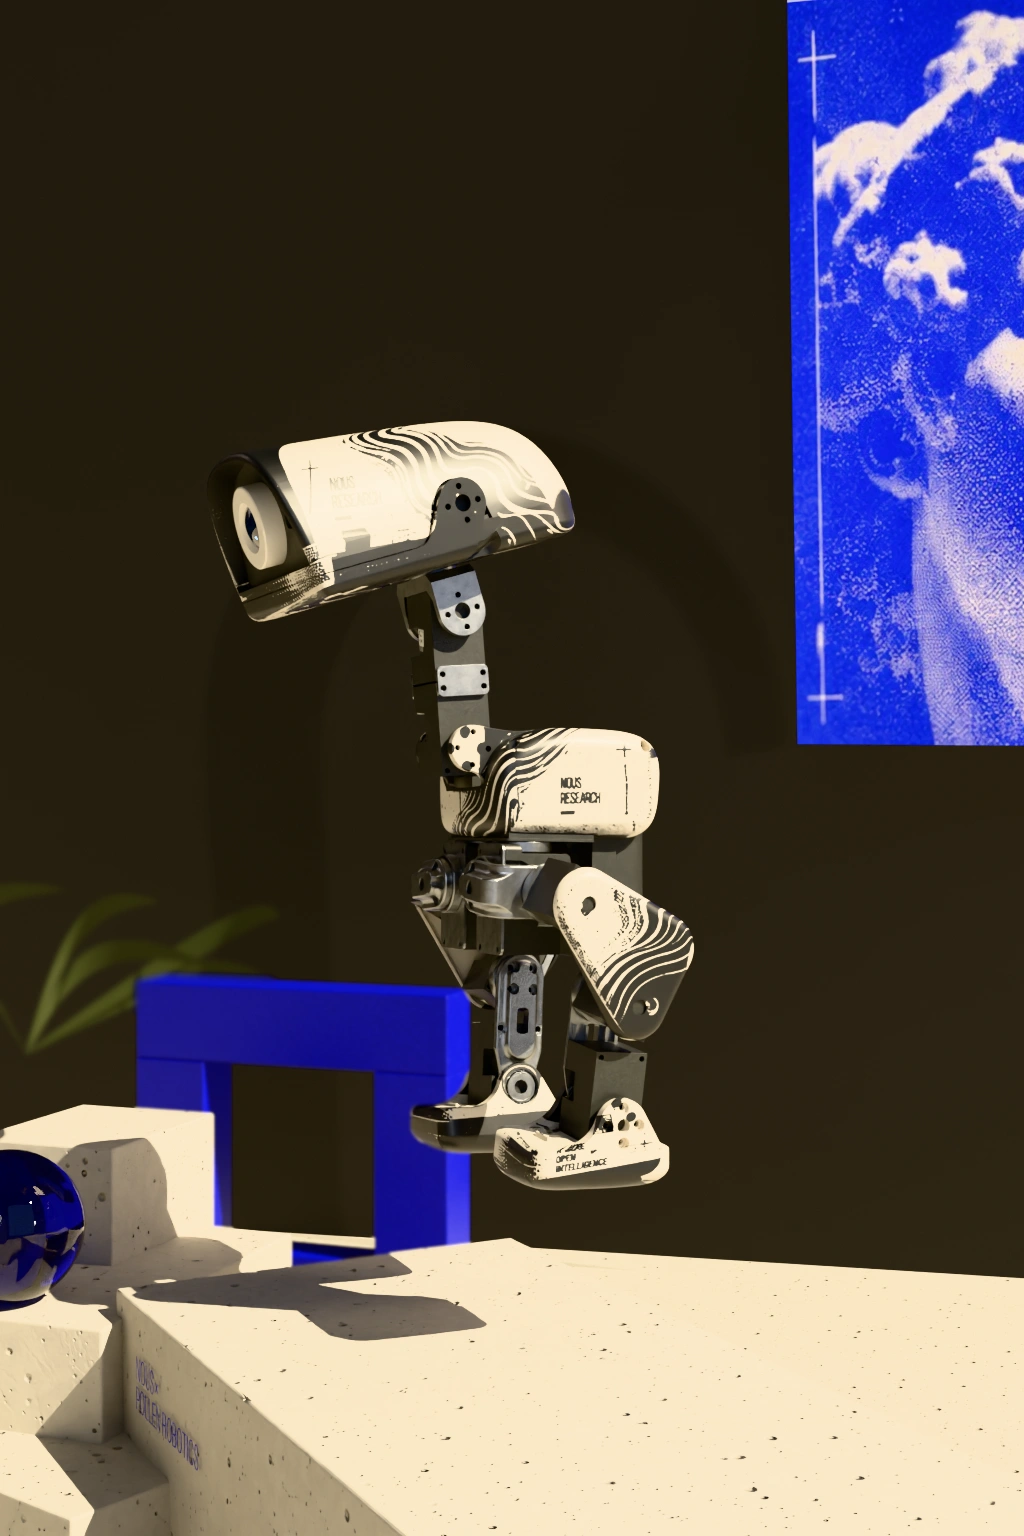
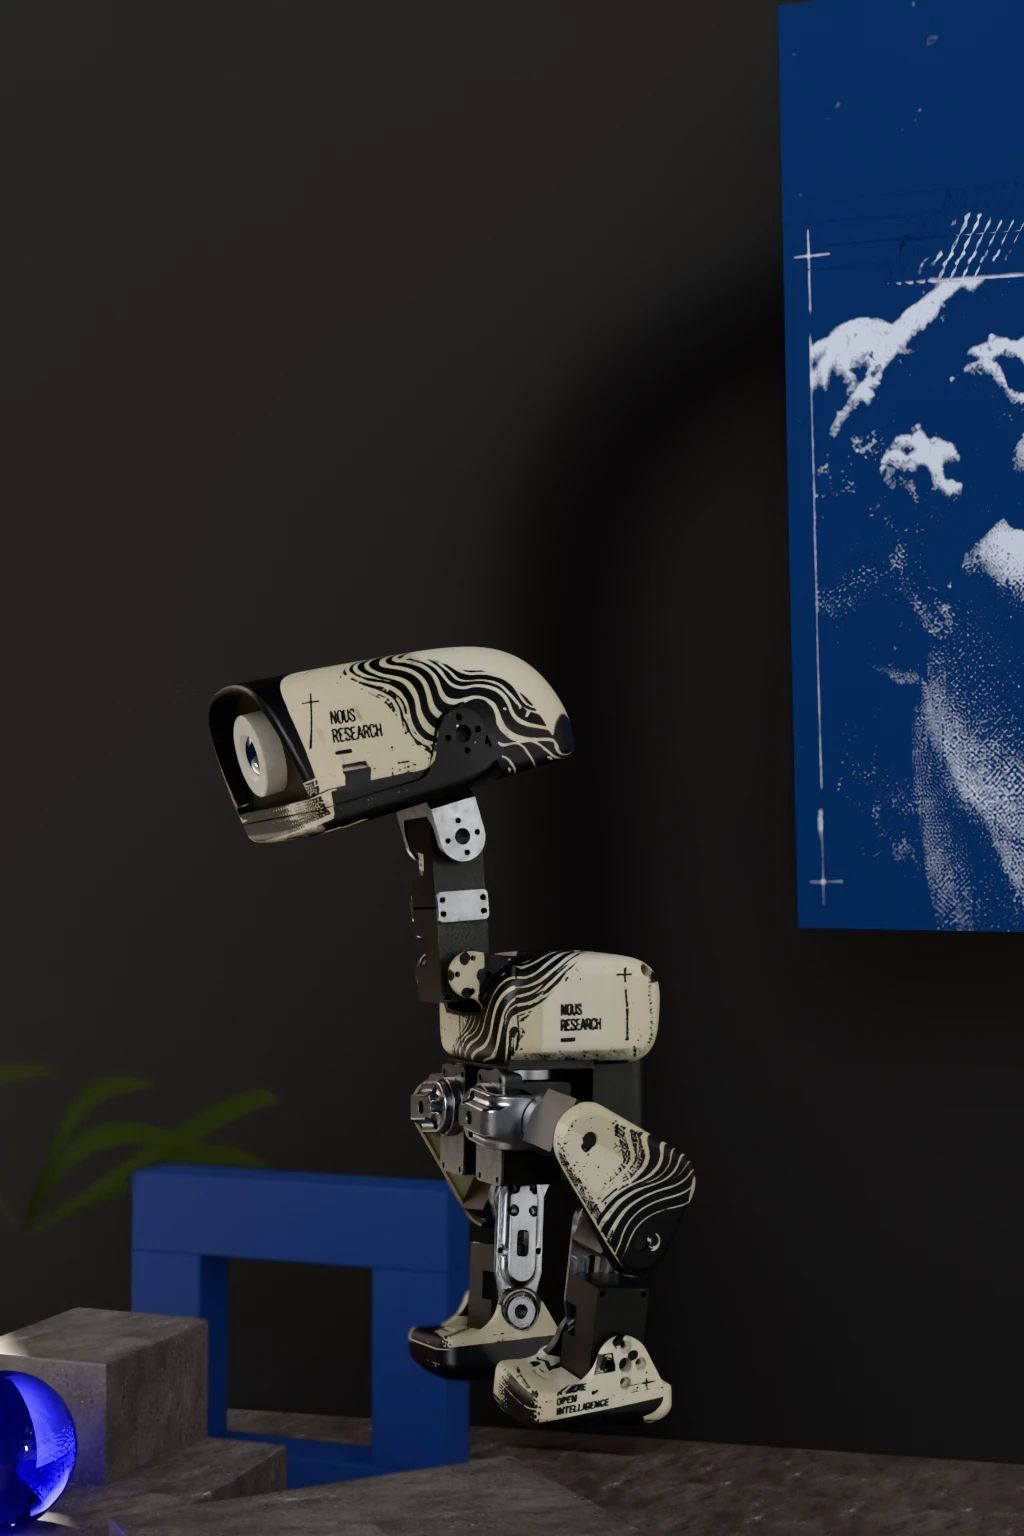
offsite-sync snapshot of /home/kvn/zer0/quackles-work/wt-b

diff --git a/scripts/day-fidelity/test_day_plate_noise.py b/scripts/day-fidelity/test_day_plate_noise.py
@@ -16,8 +16,7 @@ import audit as a  # dE / Lab
 
 DAY = ROOT / "public/preview-scene/sequence/cinematic-proof-v2/day"
 BOX = (350, 400, 890, 1210)
[1 lines of base64/hex data omitted]
-PREV_HERO_GIT = "c2d84b6:public/preview-scene/sequence/cinematic-proof-v2/day/p0000000-1024.png"
+REF = "/home/kvn/Documents/Codex/2026-09-16/c/work/calibration/references/day.png"  # locked Day reference, sha256 1481b570...
 
 def luma(im):
     x = np.asarray(im.convert("RGB")).astype(np.float64)[BOX[1]:BOX[3], BOX[0]:BOX[2]]
@@ -53,15 +52,27 @@ class DayNoise(unittest.TestCase):
                 bound = max(2 * sib[len(sib) // 2], 0.01)
                 self.assertLessEqual(vals[f.name], bound, f"{theme}/{f.name} speckle {vals[f.name]:.5f} > bound {bound:.5f} (max of 2x sibling median, 0.01)")
 
-    def test_hero_only_changes_noise_not_the_authored_look(self):
-        prev_bytes = subprocess.run(["git", "show", PREV_HERO_GIT], cwd=ROOT, capture_output=True, check=True).stdout
-        self.assertEqual(hashlib.sha256(prev_bytes).hexdigest(), PREV_HERO_SHA)
-        import io
-        prev = Image.open(io.BytesIO(prev_bytes)).convert("RGB"); cur = Image.open(DAY / "p0000000-1024.png").convert("RGB")
-        self.assertEqual(prev.size, cur.size)
-        lp = lambda x: np.asarray(x.filter(ImageFilter.GaussianBlur(6)))
-        de = a.delta_e(lp(prev), lp(cur)); dl = float((a.srgb_to_lab(lp(cur))[..., 0] - a.srgb_to_lab(lp(prev))[..., 0]).mean())
-        self.assertLessEqual(de, 1.5, f"low-pass dE {de:.2f}"); self.assertLessEqual(abs(dl), 1.0, f"low-pass dL {dl:+.2f}")
+    def test_day_hero_moves_toward_the_locked_reference(self):
+        """Replaces the denoise-only guard (6ae7278): the Day scene is now deliberately changed toward the owner's locked
+        Day reference (dark charcoal room). Guard: region error vs the reference must stay at or below the measured
+        r01 level (sum 55) and far below the old light-wall hero (150). Regions avoid the reference's web typography."""
+        R = {"wall-upper": (760, 760, 1010, 900), "arch-mid": (400, 150, 560, 380), "robot-shell": (560, 700, 760, 800),
+             "plinth-top": (300, 1180, 900, 1300), "plinth-front": (430, 1365, 900, 1505), "orb": (10, 1010, 200, 1230)}
+        ref = np.asarray(Image.open(REF).convert("RGB")); cur = np.asarray(Image.open(sorted(DAY.glob("p0000000-1024.*"))[0]).convert("RGB"))
+        lab = lambda x, b: a.srgb_to_lab(x[b[1]:b[3], b[0]:b[2]]).reshape(-1, 3).mean(0)
+        total = sum(float(np.sqrt(((lab(cur, b) - lab(ref, b)) ** 2).sum())) for b in R.values())
+        self.assertLessEqual(total, 60.0, f"Day hero region error vs locked reference {total:.1f}")
+        wall = lab(cur, R["wall-upper"])[0]; self.assertLess(wall, 25.0, f"Day wall must be dark like the reference (L {wall:.1f})")
+
+    def test_day_is_one_scene_across_all_poses(self):
+        """Regression: Day p0000000 and p0080000..p1000000 were two different sets (light wall vs dark-brown/cream sandstone).
+        The backdrop luminance (upper wall, away from the robot) must agree across the hero poses."""
+        vals = []
+        for f in frames("day")[:10]:
+            x = np.asarray(Image.open(f).convert("RGB")).astype(float)[80:300, 20:260]
+            vals.append((f.name, float((x[..., 0] * .2126 + x[..., 1] * .7152 + x[..., 2] * .0722).mean())))
+        lo, hi = min(v for _, v in vals), max(v for _, v in vals)
+        self.assertLess(hi - lo, 25.0, f"Day backdrop luma varies {lo:.0f}-{hi:.0f} across poses: {vals}")
 
 if __name__ == "__main__":
     unittest.main()
